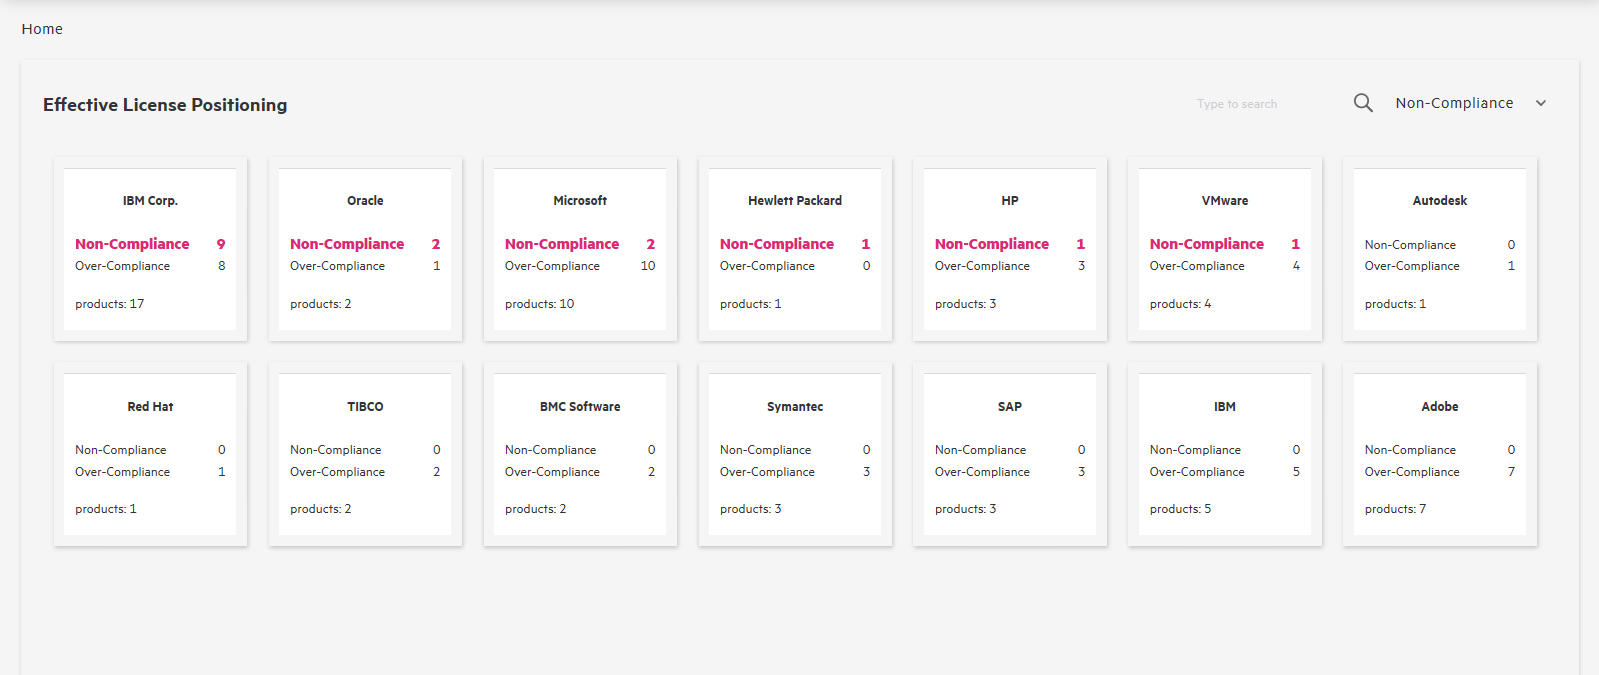
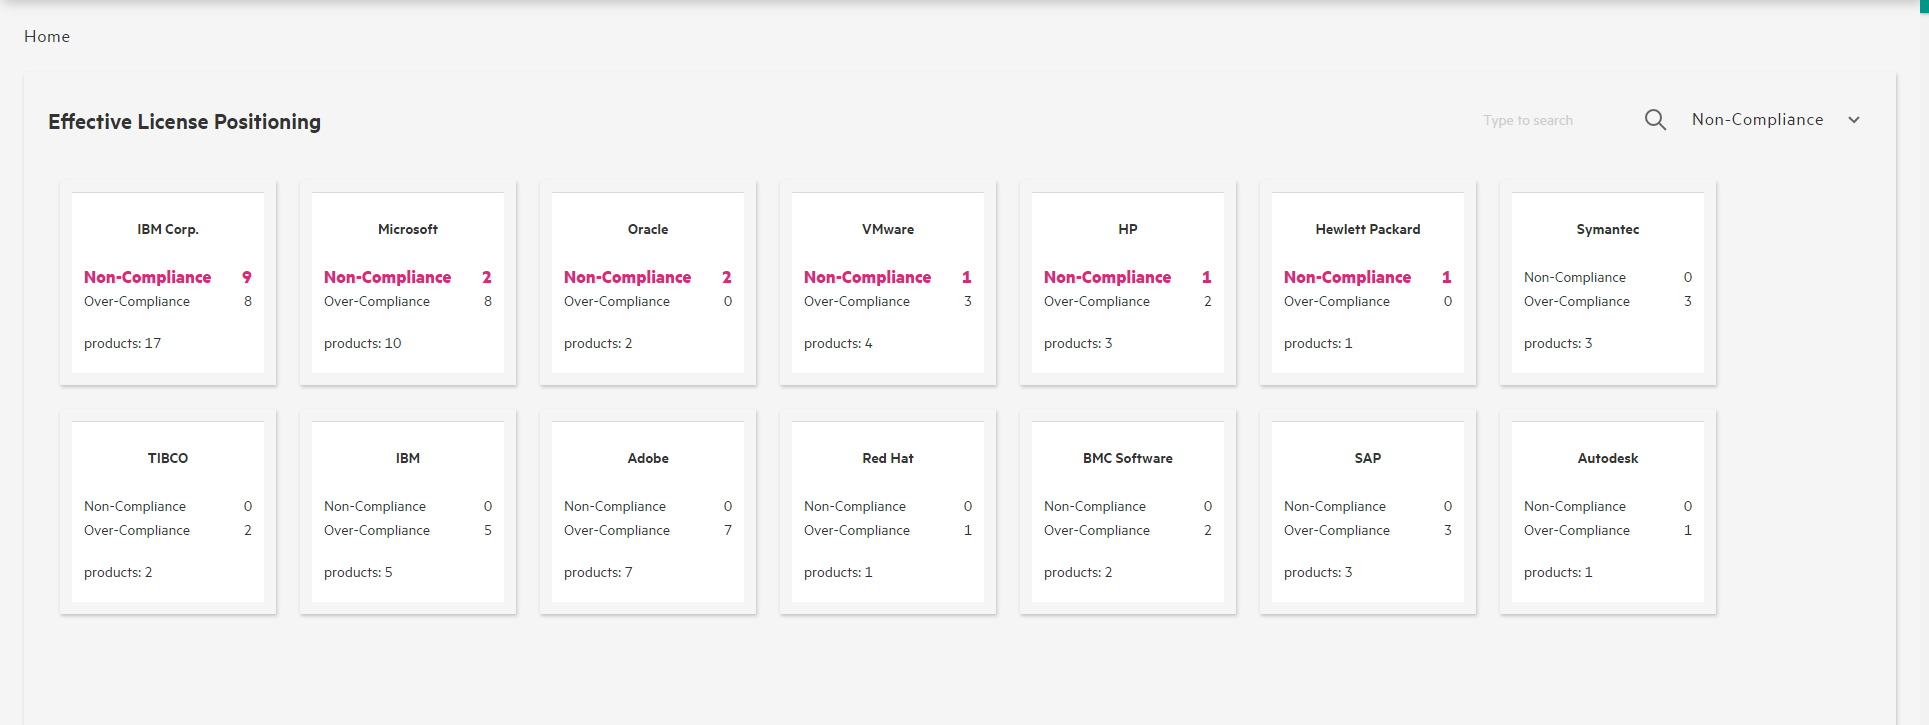
[SAM] update screenshot for product

diff --git a/docs/features/sam.md b/docs/features/sam.md
@@ -19,7 +19,7 @@ In AM Browser you will find a simplified module that displays the SAM status das
 ## Product
 
 - All products of a vendor are listed in cards.
-- Sorting by **License**, **Consumption**, **Surplus** or **Gap** is supported. (**Gap** by default)
+- Sorting by **Non-Compliance** or **Over-Compliance** is supported (**Non-Compliance** by default).
 - Sorted items are colored in cards.
 - You can click the card to switch to the version page.
 
